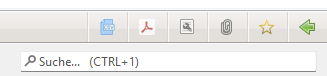
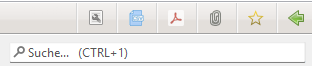
Merge pull request #160 from JohannMaierhofer/update_buchung_liste_view
Update für Buchungen Views

Pull request: Update für Buchungen Views

Changed region(s): [[0.0, 0.0606, 1.0, 0.5758], [0.0288, 0.697, 0.9808, 0.9697], [0.0, 0.0, 1.0, 0.0303]]

diff --git a/v/4.2/buchf/anlagenbuchungen.md b/v/4.2/buchf/anlagenbuchungen.md
@@ -12,6 +12,26 @@ Im Prinzip gibt es hier die gleichen Funktionen wie auch im Buchungen View, alle
 
 Ist unter Administration->Einstellungen->Anzeige eingestellt, dass die AfA Buchungen über den Button in diesem View erzeugt werden sollen, dann ist hier der entsprechende Button verfügbar.
 
-<picture><img src="https://github.com/openjverein/jverein-Book/raw/master/assets/400_AnlagenbuchungenListeView.png" alt="" /></picture>
+<picture><img src="https://github.com/openjverein/jverein-Book/raw/master/assets/402_AnlagenbuchungenListeView.png" alt="" /></picture>
+
+Folgende Buttons sind vorhanden:
+* Import: (siehe unten)
+* Export: (siehe unten)
+* Neu: Neue Buchung erzeugen
+
+Import bietet die Auswahl einer Quelle:
+* CSV-Buchungsimport: Import von Buchungen aus einer CSV Datei. Siehe [Buchungsimport](buchungsimport.md). Hier ist die Auswahl des in der Datei verwendeten Encodings notwendig
+
+Export bietet die Auswahl verschiedener Ausgaben an:
+* CSV Buchungen: Die über die Suchkriterien ausgewählten Buchungen können als CSV-Datei ausgegeben werden. Dabei werden bei Nutzung des Mitgliedskontos ggfls. auch die Daten des Mitgliedes ausgegeben.
+* PDF Buchungsjournal: Auflistung aller Buchungen nach verschiedenen Sortierungen
+* PDF Einzelbuchungen: Auflistung aller Buchungen nach Buchungsarten
+* PDF Summenbuchungen: Ausgabe der Summen pro Buchungsart
+
+Die PDF-Auswertungen sind hier abrufbar. Ausführlich beschrieben werden sie im Artikel [Buchführung Zusammenhänge](../../../sonstiges/buchfuhrung-zusammenhange.md).
+
+Buchungen Menü:
+
+<picture><img src="https://github.com/openjverein/jverein-Book/raw/master/assets/402_AnlagenbuchungenMenue.png" alt="" /></picture>
 
 Für eine Beschreibung der Behandlung von Anlagenkonten siehe [Konten](konten.md).

diff --git a/v/4.2/buchf/buchungen.md b/v/4.2/buchf/buchungen.md
@@ -26,18 +26,26 @@ Mit einem Doppelklick auf eine Buchung wird die Detailansicht zur Bearbeitung ge
 Folgende Buttons sind vorhanden:
 
 * Buchungskorrektur: Ruft den Dialog zu Buchungskorrektur auf. Siehe [Buchungskorrektur](buchungskorrektur.md)
-* Hibiscus-Import: Import von Buchungen aus Hibiscus. Siehe [Buchungsübernahme](buchungsubernahme.md)
-* Import: Import von Buchungen aus einer CSV Datei. Siehe [Buchungsimport](buchungsimport.md)
-* CSV: Die über die Suchkriterien ausgewählten Buchungen können mit einem Klick auf CSV als CSV-Datei ausgegeben werden. Dabei werden bei Nutzung des Mitgliedskontos ggfls. auch die Daten des Mitgliedes ausgegeben.
-* PDF Buchungsjournal: Auflistung aller Buchungen nach verschiedenen Sortierungen
-* PDF Einzelbuchungen: Auflistung aller Buchungen nach Buchungsarten
-* PDF Summen: Ausgabe der Summen pro Buchungsart
 * Zuordnung: Zuordnung von Buchungen zu Sollbuchungen (siehe unten)
+* Import: (siehe unten)
+* Export: (siehe unten)
 * Neu: Neue Buchung erzeugen
+
+Import bietet die Auswahl von zwei Quellen:
+* Hibiscus-Buchungsmport: Import von Buchungen aus Hibiscus. Siehe [Buchungsübernahme](buchungsubernahme.md)
+* CSV-Buchungsimport: Import von Buchungen aus einer CSV Datei. Siehe [Buchungsimport](buchungsimport.md). Hier ist die Auswahl des in der Datei verwendeten Encodings notwendig
+
+Export bietet die Auswahl verschiedener Ausgaben an:
+* CSV-Buchungen: Die über die Suchkriterien ausgewählten Buchungen können als CSV-Datei ausgegeben werden. Dabei werden bei Nutzung des Mitgliedskontos ggfls. auch die Daten des Mitgliedes ausgegeben.
+* PDF-Buchungsjournal: Auflistung aller Buchungen nach verschiedenen Sortierungen
+* PDF-Einzelbuchungen: Auflistung aller Buchungen nach Buchungsarten
+* PDF-Summenbuchungen: Ausgabe der Summen pro Buchungsart
 
 Die PDF-Auswertungen sind hier abrufbar. Ausführlich beschrieben werden sie im Artikel [Buchführung Zusammenhänge](../../../sonstiges/buchfuhrung-zusammenhange.md).
 
 Folgende Menü Einträge sind vorhanden:
+
+<picture><img src="https://github.com/openjverein/jverein-Book/raw/master/assets/402_BuchungenMenue.png" alt="" /></picture>
 
 * Bearbeiten: Öffnet die Detailansicht für die selektierte Buchung
 * Als "geprüft" markieren: Markiert die Buchung als geprüft

diff --git a/v/4.2/notes.md b/v/4.2/notes.md
@@ -10,20 +10,24 @@ Die Version 4.2 ist eine Minor Version und rückwärts kompatibel mit einer 4.1 
 
 Es gibt eine allgemeine Erweiterung für alle Tabellen, außer den Saldo Tabellen. Es lässt sich einstellen, welche Spalten in den Tabellen am GUI angezeigt werden. Auch können die Tabellen als CSV und PDF ausgegeben werden.
 
-Bei der Ausgabe als CSV oder PDF erfolgt eine Dialogabfrage in dem man die auszugebenden Spalten auswählen kann. Die Breite der Spalten im PDF Report orientiert sich am Breitenverhältnis der Spalten in der GUI Anzeige.
+Beim Spalten Konfigurationsdialog erfolgt eine Dialogabfrage in dem man die anzuzeigenden Spalten auswählen kann. 
 
 <picture><img src="https://github.com/openjverein/jverein-Book/raw/master/assets/402_SpaltenauswahlDialog.png" alt="" /></picture>
+
+Bei der Ausgabe als CSV oder PDF erfolgt eine Dialogabfrage in dem man die auszugebenden Spalten auswählen kann. In de Lasche Spalten lässt sich auch das relative Verhältnis der Spaltenbreiten im PDF Report einstellen. Im Ränder Tab kann der Randabstand der Tabelle im PDF Report eingestellt werden. Im Formular Tab kann das Vordergrund und Hintergrund Formular ausgewählt werden, ebenso ob im Querformat gedruckt werden soll.
+
+<picture><img src="https://github.com/openjverein/jverein-Book/raw/master/assets/402_TabelleExportDialog.png" alt="" /></picture>
 
 Die Buttons sind in der Panelleiste oben verfügbar.
 
 <picture><img src="https://github.com/openjverein/jverein-Book/raw/master/assets/402_Panelbuttons.png" alt="" /></picture>
 
 Drei Buttons sind verfügbar:
-* CSV: Gib die ausgewählten Spalten der angezeigten Tabelle als CSV Datei aus
+* CSV: Gibt die ausgewählten Spalten der angezeigten Tabelle als CSV Datei aus
 * PDF: Gibt die ausgewählten Spalten der angezeigten Tabelle als PDF aus
 * Spalten auswählen: Es lässt sich auswählen, welche Spalten in der Tabelle angezeigt werden sollen
 
-PS: Da die anzuzeigenden Spalten nun damit ausgewählt werden können wurde diese Option für Mitglieder in den Einstellungen entfernt. Leider konnten die Konfiguration aus den Einstellungen nicht mit übernommen werden. Es erfolgt eine feste Auswahl als Default. 
+PS: Da die anzuzeigenden Spalten nun damit ausgewählt werden können wurde diese Option für Mitglieder in den Einstellungen entfernt. Leider konnte die Konfiguration aus den Einstellungen nicht mit übernommen werden. Es erfolgt eine feste Auswahl als Default. 
 
 ### Arbeitseinsatz Auswertung
 
@@ -102,6 +106,12 @@ Ab Version 4.2.0 lässt sich dieses Verhalten unter Administration->Einstellunge
 ### Spendenbescheinigung anzeigen im Buchung Menü
 
 Im Menü der Buchung gibt es nun den Menüpunkt "Spendenbescheinigung anzeigen". Falls für eine Buchung eine Spendenbescheinigung existiert, kann sie damit angezeigt werden.
+
+### Buttons in der Buchungsliste und Anlagenbuchungsliste reduziert
+
+In der Listenanzeige von Buchungen und Anlagenbuchungen wurden die Buttons reduziert.
+* In der Listenanzeige von Buchungen wurden die beiden Import Buttons zu einem zusammen geführt. In der Auswahlbox lasst sich auswählen von welcher Quelle importiert werden soll
+* In beiden Listen Anzeigen wurden der CSV Report und die drei PDF Reports zu einem Export Button zusammen gefasst. In der Auswahlbox lasst sich auswählen welcher der Reports erzeugt werden soll
 
 
 